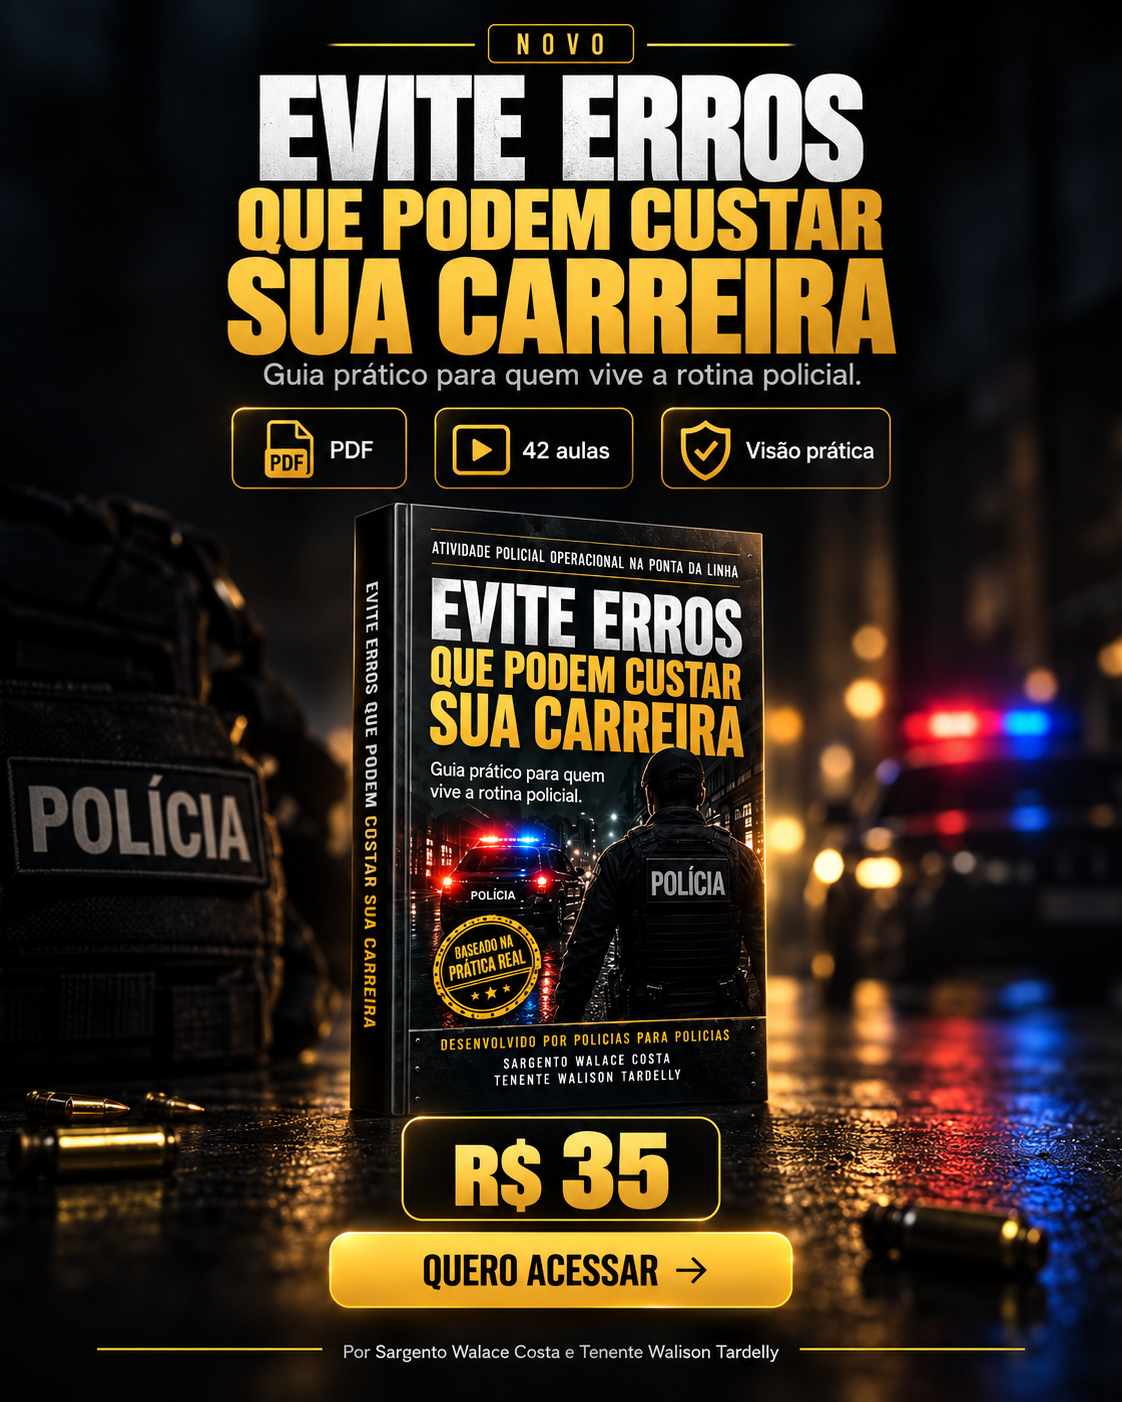
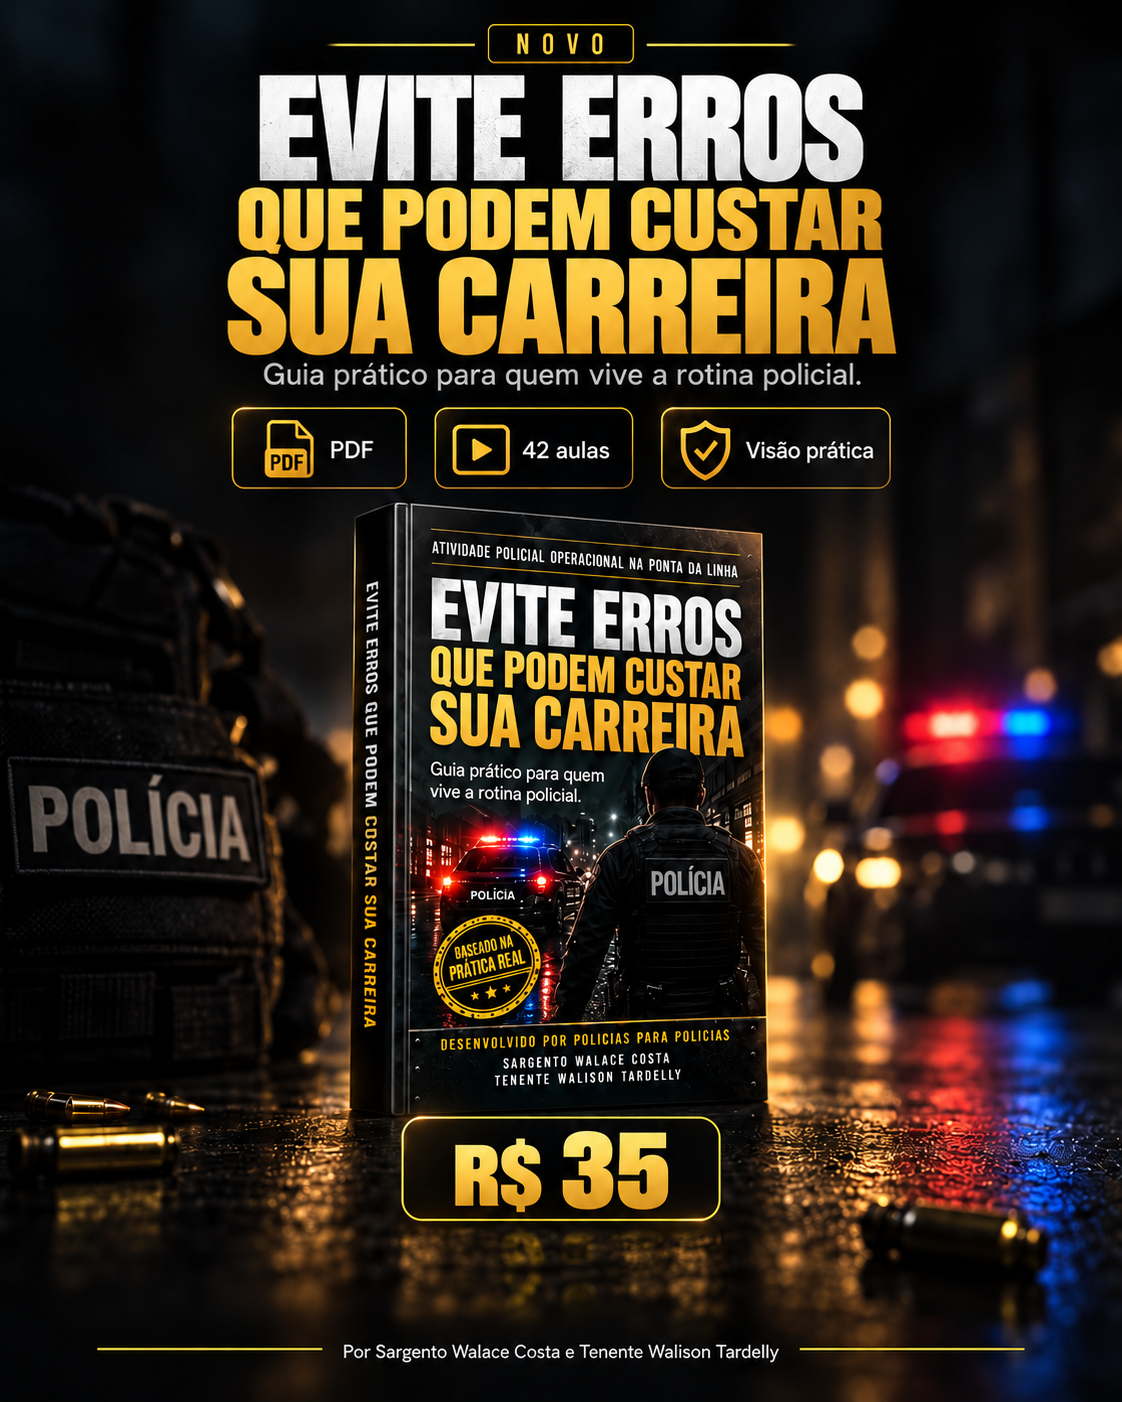
Replace hero artwork and remove overlay CTA

diff --git a/src/styles.css b/src/styles.css
@@ -773,58 +773,6 @@ a {
   width: 100%;
   height: auto;
 }
-.hero-promo-cta {
-  position: absolute;
-  z-index: 5;
-  top: 86.15%;
-  left: 29.2%;
-  display: flex;
-  width: 41.6%;
-  height: 5.45%;
-  align-items: center;
-  justify-content: center;
-  gap: 0.5rem;
-  border: 1px solid #fff0a8;
-  border-radius: 0.75rem;
-  background: linear-gradient(180deg, #ffe26e, #f5b91d);
-  color: #090b0e;
-  font-family: var(--font-display);
-  font-size: clamp(0.75rem, 1.25vw, 1.05rem);
-  letter-spacing: 0.035em;
-  text-transform: uppercase;
-  box-shadow:
-    0 0 0 0 color-mix(in oklab, var(--gold) 65%, transparent),
-    0 10px 28px oklch(0 0 0 / 45%);
-  animation: hero-cta-pulse 1.8s ease-out infinite;
-  transition:
-    filter 180ms ease,
-    transform 180ms ease;
-}
-.hero-promo-cta:hover {
-  transform: translateY(-2px) scale(1.025);
-  filter: brightness(1.08);
-}
-.hero-promo-cta:focus-visible {
-  outline: 3px solid white;
-  outline-offset: 3px;
-}
-@keyframes hero-cta-pulse {
-  0% {
-    box-shadow:
-      0 0 0 0 color-mix(in oklab, var(--gold) 65%, transparent),
-      0 10px 28px oklch(0 0 0 / 45%);
-  }
-  70% {
-    box-shadow:
-      0 0 0 14px transparent,
-      0 10px 28px oklch(0 0 0 / 45%);
-  }
-  100% {
-    box-shadow:
-      0 0 0 0 transparent,
-      0 10px 28px oklch(0 0 0 / 45%);
-  }
-}
 
 @media (max-width: 1023px) {
   .hero-professional {
@@ -845,9 +793,6 @@ a {
   }
   .hero-promo {
     border-radius: 1rem;
-  }
-  .hero-promo-cta {
-    border-radius: 0.55rem;
   }
 }
 .hero-orb {

diff --git a/src/routes/index.tsx b/src/routes/index.tsx
@@ -344,10 +344,6 @@ function LandingPage() {
                 alt="Evite erros que podem custar sua carreira — e-book Atividade Policial Operacional na Ponta da Linha"
                 className="hero-promo-image"
               />
-              <a href={KIWIFY_URL} className="hero-promo-cta" aria-label="Quero acessar o material">
-                <span>Quero acessar</span>
-                <ArrowRight className="h-5 w-5" />
-              </a>
             </motion.div>
           </div>
         </section>
